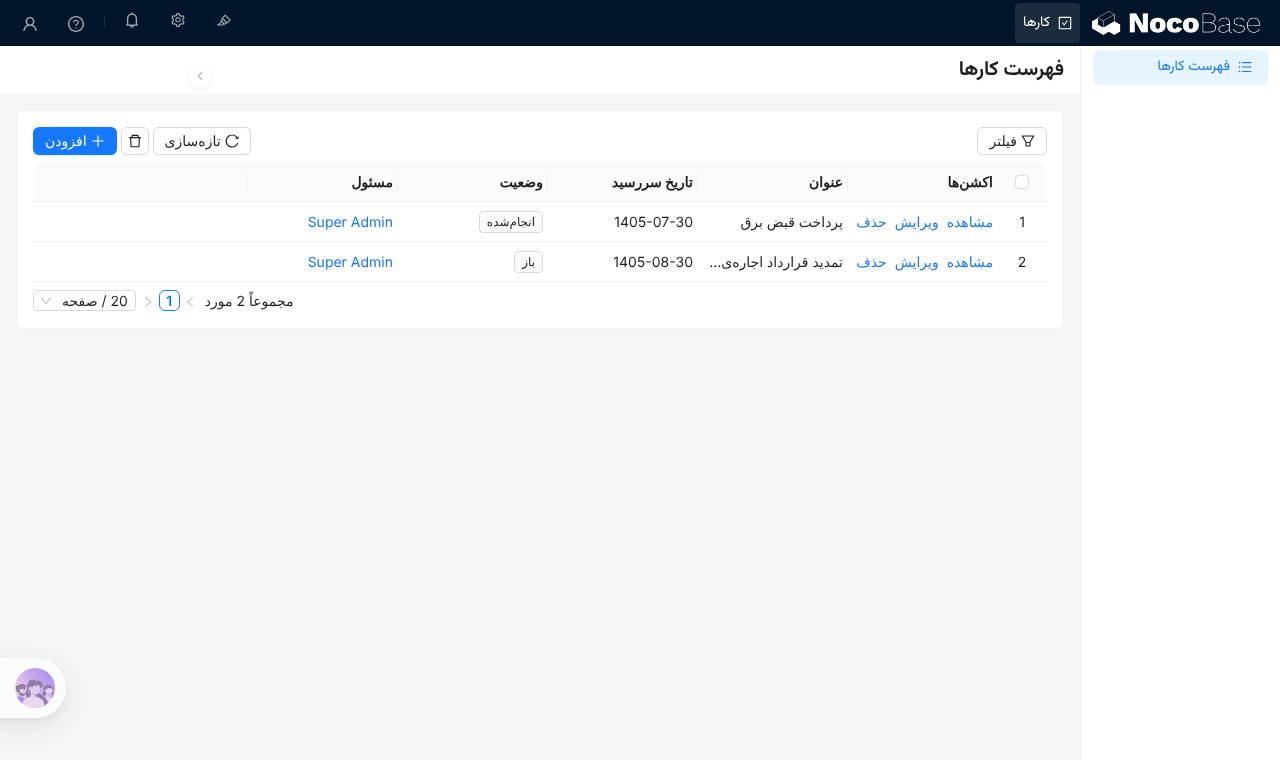
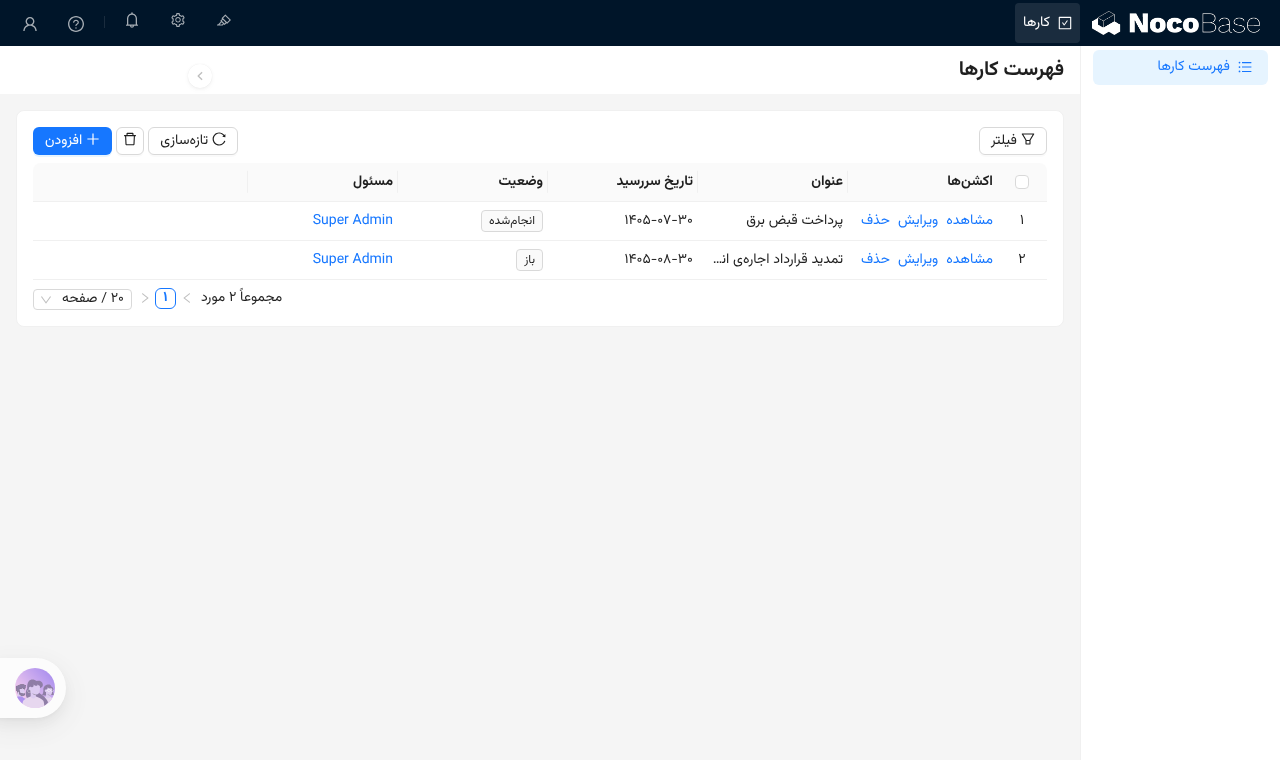
STORY-069: guide screenshots with the Persian font on modern pages
Claude-Session: https://claude.ai/code/session_01PGTd1C74bJRJA5h5BEQUPR

diff --git a/backlog/epics/EPIC-017-module-catalog/STORY-069-module-guide.md b/backlog/epics/EPIC-017-module-catalog/STORY-069-module-guide.md
@@ -37,7 +37,7 @@ model: sonnet
 ## پرسشهای باز
 - **ساختن با API و تصویر از رابط:** اسکریپت هر تکه را با همان اکشنهای HTTP رابط میسازد و از صفحهی مربوط در رابط تصویر میگیرد. کلیک کردن همهی گامها در رابط، اسکریپت را به جزئیات رابط NocoBase وابسته و شکننده میکرد. فقط گام «تعریف ماژول» با رابط انجام میشود، چون صفحهی خود این پروژه است.
 - **جای اسکریپت:** `tools/module-guide/` با پیکربندی Playwright جدا، نه `e2e/`. پس در CI اجرا نمیشود و تصویرهای مرجع e2e را عوض نمیکند. اجرای آن پس از ارتقای NocoBase در فهرست بازبینی ارتقا جا دارد.
-- **یافته:** تصویر جدول صفحهی مدرن ارقام لاتین و فونت پیشفرض دارد. بلوکهای صفحهی مدرن تم antd را از `FlowEngineProvider` میگیرند که بیرون `FaProvider` است، پس فونت وزیرمتن به آنها نمیرسد. رفع آن استوری جداست (STORY-073). پس از ادغام آن، تصویرها با `yarn docs:module-guide` دوباره گرفته میشوند.
+- **یافته:** تصویر جدول صفحهی مدرن ارقام لاتین و فونت پیشفرض دارد. بلوکهای صفحهی مدرن تم antd را از `FlowEngineProvider` میگیرند که بیرون `FaProvider` است، پس فونت وزیرمتن به آنها نمیرسد. رفع آن استوری جداست (STORY-073). تصویرهای این PR روی ایمیجی گرفته شدهاند که STORY-072 و STORY-073 را دارد، پس همان چیزی را نشان میدهند که پس از ادغام آنها دیده میشود.
 
 ## تعریف انجامشده
 - [x] کد و آزمون در یک PR
